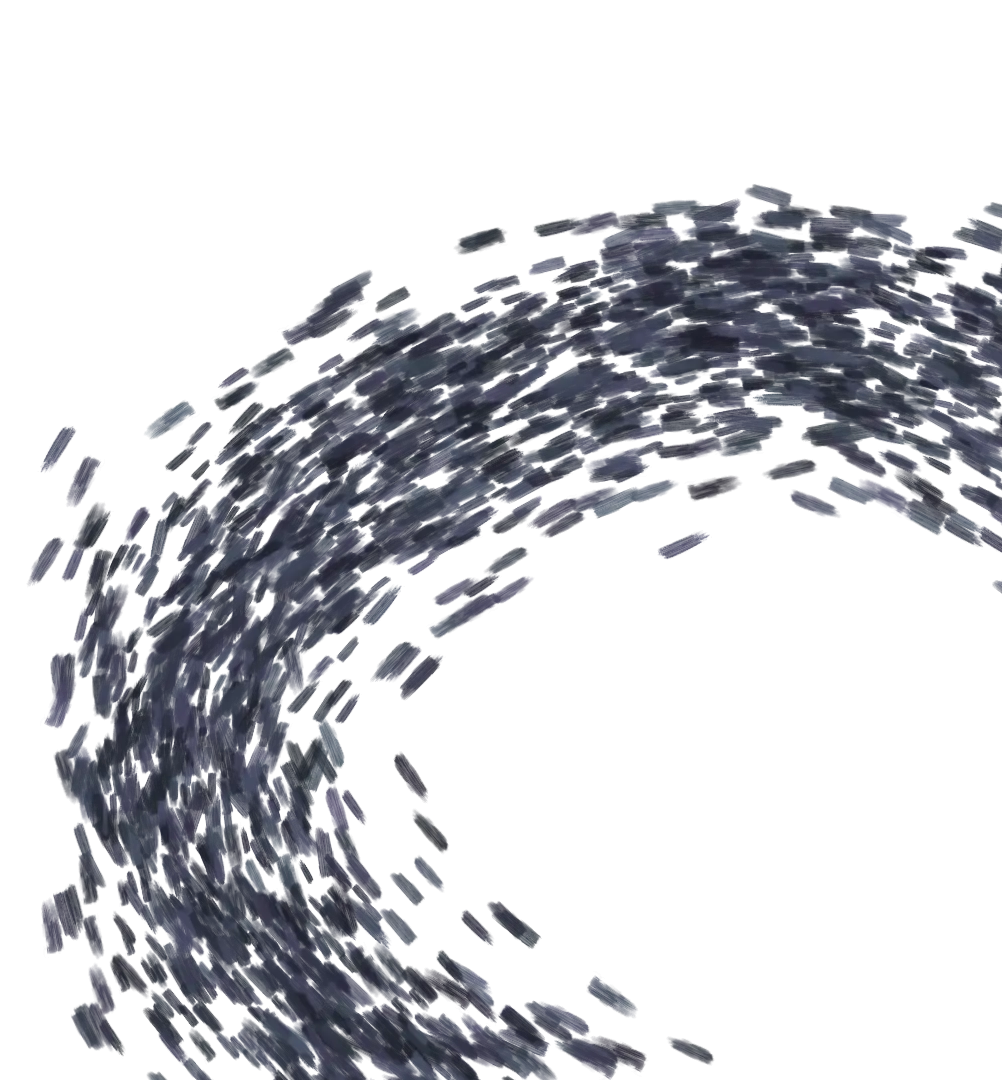
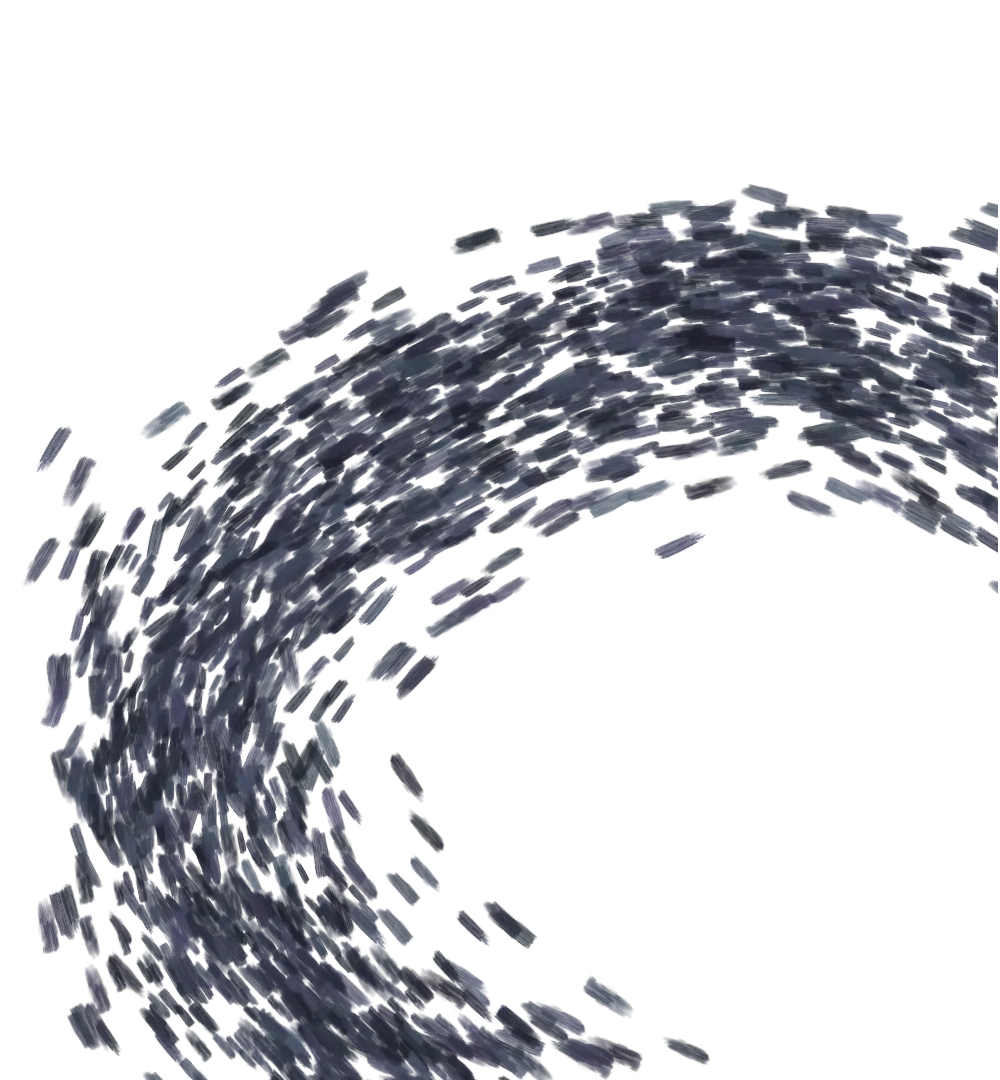
update

diff --git a/css/min.css b/css/min.css
@@ -1,1 +1,1 @@
-*,*:before,*:after{box-sizing:border-box}html{font-size:18px;overflow-x:hidden}@font-face{font-family:'roboto';src:url('../fonts/robotoRegular.ttf') format('truetype');font-weight:normal;font-style:normal}@font-face{font-family:"roboto-webfont";src:url('../fonts/robotoCondensed.ttf') format('truetype')}body{font-size:1.5em;font-weight:500;line-height:1.6;margin:0;overflow-x:hidden;background-color:#F8F9FA}section{margin:0}button{cursor:pointer;border:none;font-family:"roboto-webfont",Arial,sans-serif;font-weight:600}img{object-fit:cover}h1{font-family:"roboto-webfont",Arial,sans-serif;padding:0;margin:0;font-size:2.5rem;line-height:1;letter-spacing:-.1rem;text-align:center;color:#232931;text-shadow:}h2{padding:0;margin:0;line-height:normal;font-family:"roboto-webfont",Helvetica,Arial,sans-serif;font-size:1.5rem;line-height:1.8rem;color:#232931;margin-bottom:1rem}h3{font-family:"roboto-webfont",Helvetica,Arial,sans-serif;margin:0;padding:0;color:#232931}p{font-family:"roboto",Helvetica,Arial,sans-serif;color:#333C47;font-weight:400;font-size:.95rem}a{text-decoration:none}.nav{display:flex;justify-content:center;align-items:center;box-shadow:0rem .3rem .75rem rgba(0,0,0,.1);height:7vh;padding-top:1.5vh;padding-bottom:1vh;position:fixed;width:100%;background-color:#F8F9FA;z-index:5}.home{display:flex;flex-direction:column;align-items:center;justify-content:center;margin-top:-.2rem;margin-right:auto;margin-left:auto}.inactive::after{content:'';position:relative;display:block;width:0%;height:.1rem;background-color:dimgray;margin:-0.1rem auto;transition:width .2s ease-in-out}.inactive{transition:color .2s ease-in-out}.inactive:hover{color:#232931}.inactive:hover::after{content:'';position:relative;display:block;width:100%;height:.1rem;background-color:dimgray;margin:-0.1rem auto}.nav a{align-self:center;text-transform:uppercase;font-family:"roboto-webfont",Helvetica,Arial,sans-serif;color:#636363;font-size:.8rem;margin:0 .5rem}#type p{display:inline-block}.mainScreen{padding:5vw 0;background-image:url("../media/goghCo.webp"),url("../media/iconGrid.svg");background-repeat:no-repeat,repeat;background-position:right top,center top;background-size:cover,30%;z-index:1;padding-bottom:3rem;max-height:100vh;*/}.welcomeContent{text-align:center;width:100%;padding-top:15vh;display:flex;flex-direction:column;justify-content:space-between;align-content:center;padding-bottom:10vh}.welcomeContent p{width:80%;margin:0 auto;font-size:1rem;margin-top:3rem}#test1 span{text-decoration:underline}#logo{display:block;width:35%;height:auto;margin:0 auto}.logoHolder span{}@media (min-width:700px){h1{text-align:left;font-size:4rem}#test1{font-size:1.3rem;margin:0;width:75%;margin-top:1.3rem}#logo{width:100%;max-height:40vh}.mainScreen{padding:5vw 0;background-image:url("../media/goghCo.webp"),url("../media/iconGrid.svg");background-repeat:no-repeat,repeat;background-position:right bottom,center top;background-size:contain,10%;z-index:1;min-height:100vh}.welcomeContent{display:grid;grid-template-columns:2fr 1fr;width:90%;max-width:1500px;padding:5%;margin-left:auto;margin-right:auto;justify-content:left}hr{visibility:hidden}.sloganAndDesc{grid-column:1/2;grid-row:2/3;text-align:left;display:flex;flex-direction:column}.logoHolder{grid-column:1/2;grid-row:1/2;align-self:left}.logoHolder svg{margin-right:auto}.logoHolder{margin-right:auto}.logoHolder span{display:none}}.services{font-size:1rem;padding:5%;padding-top:1rem;padding-bottom:10vh;color:#3d3d3d;display:flex;flex-direction:column;background-color:transparent}.serviceBox h2{font-family:"roboto-webfont",Arial,sans-serif;margin:1rem 0;margin-top:2rem;text-align:left;color:#232931}.serviceBox p{padding:0;margin:0;margin-bottom:1rem;text-align:left}.serviceBox button{padding:.5rem .7rem;color:white;background-color:#DD1438;margin-bottom:0;font-size:.8rem;border-radius:0;box-shadow:.25rem .25rem .25rem rgba(0,0,0,.1)}.serviceBox{margin-top:9vh;background-color:#F8F9FA}.serviceBox:last-child{padding-bottom:7vh}.serviceInfo{width 100%}.map{height:150px;width:100%;display:block;box-shadow:.25rem .25rem .25rem rgba(0,0,0,.1)}#firstImage{background-image:url("../media/goranHands.webp");background-size:cover;background-position:center}#secondImage{background-image:url("../media/apronGirl.webp");background-size:cover;background-position:center}#thirdImage{background-image:url("../media/apronGirl.webp");background-size:cover;background-position:top}.spacer{margin:auto 0}@media (min-width:700px){.services{margin-left:auto;margin-right:auto;width:90%;max-width:1500px;display:flex;flex-direction:row}.serviceBox{margin-top:0;text-align:center;flex:1;display:flex;flex-direction:column;align-items:stretch;justify-content:space-between;box-shadow:.5rem .5rem .75rem rgba(0,0,0,.15);max-width:32%}.serviceBox:last-child{padding-bottom:0}.serviceBox::after{display:none}.serviceBox button{margin-bottom:1rem}.serviceInfo{display:flex;flex-direction:column;justify-content:space-between;margin:0;height:100%;background-color:#F5F5F5}.serviceInfo p{text-align:center;width:95%;margin:0 auto}.serviceInfo h2{text-align:center}.serviceCTA{display:none}.spacer{margin:0 auto}nav{padding-left:2rem;padding-right:2rem}.map{height:200px}}.teamSection{margin:0 0;background-color:#232931;padding:5%;padding-top:10vh}.team{display:flex;flex-direction:column}.teamCaption{font-family:"roboto-webfont",Arial,sans-serif;text-align:center;font-size:1.8rem;color:white;text-transform:uppercase;margin-bottom:7vh}.teamCaption::after,.teamCaptionDark::after{content:'';width:13ch;height:.45rem;background-color:#DD1438;display:block;margin:0 auto}.divider{object-fit:contain;width:105%;overflow-x:hidden;background:#F8F9FA;margin-bottom:-5px;display:none}.teamMember{font-size:1rem;box-shadow:.5rem .5rem .75rem rgba(0,0,0,.1);display:grid;grid-template-columns:1fr 1fr;margin:1rem auto;width:300px}.teamMemberName h3,.teamMemberName h2{padding:.5rem 0;margin:0;font-size:.8rem;font-family:"roboto-webfont",Arial,sans-serif;text-align:left;margin-left:5%;color:white;line-height:1.6}.teamMember picture,.teamMember img{object-fit:cover;grid-area:1 / 1 / 3 / 3;width:300px;height:300px}.teamMemberName{background-color:#DD1438;grid-column-start:1;grid-column-end:3;grid-row-start:3}.more{grid-column-start:2;grid-column-end:3;grid-row-start:3;grid-row-end:4;align-self:center;justify-self:end;margin-right:.5rem;display:flex;animation:.5s cubic-bezier(.55,.06,.68,.19) chevronAnim alternate;animation-iteration-count:infinite}.more img{object-fit:scale-down;height:2rem;width:auto}@keyframes chevronAnim{from{margin-right:.5rem}to{margin-right:1rem}}@media (min-width:700px){.team{flex-direction:row;width:70%;margin-left:auto;margin-right:auto;justify-content:space-around;max-width:750px}.teamCaption,.teamCaptionDark{font-size:3rem}.teamCaption::after{margin-top:.4rem}}.teamDescript{padding:.8rem;background-color:#F5F5F5;grid-column:1/3}.contact{background-color:#DD1438;padding:1rem;box-shadow:0rem .5rem .75rem rgba(0,0,0,.15)}.social{display:flex;justify-content:center;align-content:center}.socialIcon{height:2rem;width:2rem;margin:0 0.25rem;cursor:pointer;box-shadow:.25rem .25rem .25rem rgba(0,0,0,.05)}.socialIcon:first-child{margin-left:0}.buttonWhite{display:block;padding:0 1rem;color:#DD1438;background-color:white;font-size:.9rem;margin-left:.25rem;text-transform:uppercase;height:2rem;box-shadow:.25rem .25rem .25rem rgba(0,0,0,.1);border-radius:0}footer{margin-top:0;background-color:#232931;height:20vh}
+*,*:before,*:after{box-sizing:border-box}html{font-size:18px;overflow-x:hidden}@font-face{font-family:'roboto';src:url('../fonts/robotoRegular.ttf') format('truetype');font-weight:normal;font-style:normal}@font-face{font-family:"roboto-webfont";src:url('../fonts/robotoCondensed.ttf') format('truetype')}@font-face{font-family:"roboto-bold";src:url('../fonts/robotoBold.ttf') format('truetype')}body{font-size:1.5em;font-weight:500;line-height:1.6;margin:0;overflow-x:hidden;background-color:#F8F9FA}section{margin:0}button{cursor:pointer;border:none;font-family:"roboto-webfont",Arial,sans-serif;font-weight:600}img{object-fit:cover}h1{font-family:"roboto-webfont",Arial,sans-serif;padding:0;margin:0;font-size:2.5rem;line-height:1;letter-spacing:-.1rem;text-align:center;color:#232931;text-shadow:}h2{padding:0;margin:0;line-height:normal;font-family:"roboto-webfont",Helvetica,Arial,sans-serif;font-size:1.5rem;line-height:1.8rem;color:#232931;margin-bottom:1rem}h3{font-family:"roboto-webfont",Helvetica,Arial,sans-serif;margin:0;padding:0;color:#232931}p{font-family:"roboto",Helvetica,Arial,sans-serif;color:#333C47;font-weight:400;font-size:.95rem}a{text-decoration:none}.year{color:#DD1438;font-family:"roboto-bold";font-weight:600}.cvSpacer{height:5rem}.cv p{line-height:1.5rem}strong{}.nav{display:flex;justify-content:center;align-items:center;box-shadow:0rem .3rem .75rem rgba(0,0,0,.1);height:7vh;padding-top:1.5vh;padding-bottom:1vh;position:fixed;width:100%;background-color:#F8F9FA;z-index:5}.home{display:flex;flex-direction:row;align-items:center;justify-content:center;margin-top:-.2rem;margin-right:auto;margin-left:auto}.home picture{line-height:0}.inactive::after{content:'';position:relative;display:block;width:0%;height:.1rem;background-color:dimgray;margin:-0.1rem auto;transition:width .2s ease-in-out}.inactive{transition:color .2s ease-in-out}.inactive:hover{color:#232931}.inactive:hover::after{content:'';position:relative;display:block;width:100%;height:.1rem;background-color:dimgray;margin:-0.1rem auto}.nav a{align-self:center;text-transform:uppercase;font-family:"roboto-webfont",Helvetica,Arial,sans-serif;color:#636363;font-size:.8rem;margin:0 .5rem}#type{text-transform:lowercase;margin-left:.5rem;margin-bottom:1.2rem;font-family:"roboto-webfont";font-size:1.1rem}@media (max-width:700px){#type{display:none;margin:0}}.mainScreen{padding:5vw 0;background-image:url("../media/goghCo720.webp"),url("../media/iconGrid.svg");background-repeat:no-repeat,repeat;background-position:right top,center top;background-size:cover,30%;z-index:1;padding-bottom:3rem;max-height:100vh;*/}.welcomeContent{text-align:center;width:100%;padding-top:15vh;display:flex;flex-direction:column;justify-content:space-between;align-content:center;padding-bottom:10vh}.welcomeContent p{width:80%;margin:0 auto;font-size:1rem;margin-top:3rem}#test1 span{text-decoration:underline}#logo{display:block;width:35%;height:auto;margin:0 auto}.logoHolder span{}@media (min-width:700px){h1{text-align:left;font-size:3.25rem}#test1{font-size:1.1rem;margin:0;width:75%;margin-top:1.3rem}#logo{width:100%;max-height:40vh}.mainScreen{padding:5vw 0;background-image:url("../media/goghCo720.webp"),url("../media/iconGrid.svg");background-repeat:no-repeat,repeat;background-position:right bottom,center top;background-size:contain,10%;z-index:1;max-height:100vh}.welcomeContent{display:grid;grid-template-columns:2fr 1fr;width:90%;max-width:1500px;padding:5%;margin-left:auto;margin-right:auto;justify-content:left}hr{visibility:hidden}.sloganAndDesc{grid-column:1/2;grid-row:2/3;text-align:left;display:flex;flex-direction:column}.logoHolder{grid-column:1/2;grid-row:1/2;align-self:left}.logoHolder svg{margin-right:auto}.logoHolder{margin-right:auto}.logoHolder span{display:none}}@media (min-width:1400px){.mainScreen{padding:5vw 0;background-image:url("../media/goghCo.webp"),url("../media/iconGrid.svg");background-repeat:no-repeat,repeat;background-position:right bottom,center top;background-size:contain,10%;z-index:1;min-height:100vh}html{font-size:21px}}.services{font-size:1rem;padding:5%;padding-top:1rem;padding-bottom:10vh;color:#3d3d3d;display:flex;flex-direction:column;background-color:transparent}.serviceBox h2{font-family:"roboto-webfont",Arial,sans-serif;margin:1rem 0;margin-top:2rem;text-align:left;color:#232931}.serviceBox p{padding:0;margin:0;margin-bottom:1rem;text-align:left}.serviceBox button{padding:.5rem .7rem;color:white;background-color:#DD1438;margin-bottom:0;font-size:.8rem;border-radius:0;box-shadow:.25rem .25rem .25rem rgba(0,0,0,.1)}.serviceBox{margin-top:9vh;background-color:#F8F9FA}.serviceBox:last-child{padding-bottom:7vh}.serviceInfo{width 100%}.map{height:150px;width:100%;display:block;box-shadow:.25rem .25rem .25rem rgba(0,0,0,.1)}#firstImage{background-image:url("../media/goranHands.webp");background-size:cover;background-position:center}#secondImage{background-image:url("../media/apronGirl.webp");background-size:cover;background-position:center}#thirdImage{background-image:url("../media/apronGirl.webp");background-size:cover;background-position:top}.spacer{margin:auto 0}@media (min-width:700px){.services{margin-left:auto;margin-right:auto;width:90%;max-width:1500px;display:flex;flex-direction:row}.serviceBox{margin-top:0;text-align:center;flex:1;display:flex;flex-direction:column;align-items:stretch;justify-content:space-between;box-shadow:.5rem .5rem .75rem rgba(0,0,0,.15);max-width:32%}.serviceBox:last-child{padding-bottom:0}.serviceBox::after{display:none}.serviceBox button{margin-bottom:1rem}.serviceInfo{display:flex;flex-direction:column;justify-content:space-between;margin:0;height:100%;background-color:#F5F5F5}.serviceInfo p{text-align:center;width:95%;margin:0 auto}.serviceInfo h2{text-align:center}.serviceCTA{display:none}.spacer{margin:0 auto}nav{padding-left:2rem;padding-right:2rem}.map{height:200px}}.teamSection{margin:0 0;background-color:#232931;padding:5%;padding-top:10vh}.team{display:flex;flex-direction:column}.teamCaption,.teamCaptionDark{font-family:"roboto-webfont",Arial,sans-serif;text-align:center;font-size:1.8rem;color:white;text-transform:uppercase;margin-bottom:7vh;letter-spacing:normal}.teamCaption::after,.teamCaptionDark::after{content:'';width:13ch;height:.45rem;background-color:#DD1438;display:block;margin:0 auto}.divider{object-fit:contain;width:105%;overflow-x:hidden;background:#F8F9FA;margin-bottom:-5px;display:none}.teamMember{font-size:1rem;box-shadow:.5rem .5rem .75rem rgba(0,0,0,.1);display:grid;grid-template-columns:1fr 1fr;margin:1rem auto;width:300px}.teamMemberName h3,.teamMemberName h2{padding:.5rem 0;margin:0;font-size:.8rem;font-family:"roboto-webfont",Arial,sans-serif;text-align:left;margin-left:5%;color:white;line-height:1.6}.teamMember picture,.teamMember img{object-fit:cover;grid-area:1 / 1 / 3 / 3;width:300px;height:300px}.teamMemberName{background-color:#DD1438;grid-column-start:1;grid-column-end:3;grid-row-start:3}.more{grid-column-start:2;grid-column-end:3;grid-row-start:3;grid-row-end:4;align-self:center;justify-self:end;margin-right:.5rem;display:flex;animation:.5s cubic-bezier(.55,.06,.68,.19) chevronAnim alternate;animation-iteration-count:infinite}.more img{object-fit:scale-down;height:2rem;width:auto}@keyframes chevronAnim{from{margin-right:.5rem}to{margin-right:1rem}}@media (min-width:700px){.team{flex-direction:row;width:70%;margin-left:auto;margin-right:auto;justify-content:space-around;max-width:750px}.teamCaption,.teamCaptionDark{font-size:3rem;line-height:2.5rem}}.teamDescript{padding:.8rem;background-color:#F5F5F5;grid-column:1/3}.contact{background-color:#DD1438;padding:1rem;box-shadow:0rem .5rem .75rem rgba(0,0,0,.15)}.social{display:flex;justify-content:center;align-content:center}.socialIcon{height:2rem;width:2rem;margin:0 0.25rem;cursor:pointer;box-shadow:.25rem .25rem .25rem rgba(0,0,0,.05)}.socialIcon:first-child{margin-left:0}.buttonWhite{display:block;padding:0 1rem;color:#DD1438;background-color:white;font-size:.9rem;margin-left:.25rem;text-transform:uppercase;height:2rem;box-shadow:.25rem .25rem .25rem rgba(0,0,0,.1);border-radius:0}footer{margin-top:0;background-color:#232931;height:20vh}

diff --git a/team.html b/team.html
@@ -32,7 +32,8 @@
     <section class="teamPage">
       <h1 class="teamCaptionDark">Нашият Екип</h1>
       <div class="team">
-        <div class="teamMember" id="PavelLefterov">
+        <a href="#" id="PavelLefterov"></a>
+        <div class="teamMember">
           <picture>
             <source srcset="media/pavelSmall.webp">
             <source srcset="media/pavelSmall.jpg">
@@ -42,7 +43,58 @@
             <h2>ПАВЕЛ ЛЕФТЕРОВ</h2>
           </div>
           <div class="teamDescript">
-            <p>Роден през 1994г.</p> 0 0
+            <div class="cv">
+              <h3>Образование</h3>
+              <p>
+                <strong class="year">2020</strong> Зачислен като <strong>докторант</strong> с направление "Методика на <strong>обучението по изобразително изкуство"</strong> в СУ "Климент Охридски"
+                </p>
+                <p>
+                <strong class="year">2018</strong> Завършва <strong>магистърска</strong> програма "<strong>Семиотика и педагогика</strong> на изобразителното изкуство" в СУ "Климент Охридски"
+                </p>
+                <p>
+                <strong class="year">2016</strong> Завършва <strong>бакалавърска</strong> програма <strong>Fine art: Painting</strong> в Univesity of the arts London, Wimbledon college of art
+                </p>
+                <p>
+                <strong class="year">2013</strong> Завършва специалност "<strong>Живопис</strong>" в НУИИ "Илия Петров"</p>
+                </p>
+                <p>
+                <h3>Подбрани групови изложби</h3>
+                <p><strong class="year">2019</strong> <strong>On the edge</strong>, Стубел, София
+                </p>
+                <p>
+                <strong class="year">2018</strong> <strong>Дипломна изложба</strong>, Софийски университет, София
+                </p>
+                <p>
+                <strong class="year">2016</strong> <strong>Fusion Art Fest</strong>, Underground, София
+                </p>
+                <p>
+                <strong class="year">2016</strong> <strong>WCA BA Graduation Show</strong>, WCA, Лондон
+                </p>
+              <p>
+                <strong class="year">2015</strong> <strong>Project Berlin</strong>, Берлин
+                </p>
+                <p>
+                <strong class="year">2015</strong> <strong>BAZA</strong>, СГХГ, София
+                </p>
+                <p>
+                <strong class="year">2014</strong> <strong>London Calling 014</strong>, Truman brewery, Лондон
+                </p>
+                <p>
+                <strong class="year">2014</strong> <strong>ArtCube Art Fair</strong>, Лондон
+                </p>
+                <p>
+                <strong class="year">2013</strong> <strong>ESSL Art Award</strong>, галерия Академия, София
+                </p>
+                <p>
+                <strong class="year">2012</strong> <strong>BAZA</strong>, СГХГ, София
+                </p>
+                <p>
+                <strong class="year">2011</strong> <strong>Св. Св. Кирил и Методий</strong>, СБХ, София
+                </p>
+                <p>
+                <strong class="year">2011</strong> <strong>ARTPARIS 2011</strong>, Grand Palais, Париж</p>
+              </p>
+            </div>
           </div>
         </div>
 
@@ -70,6 +122,35 @@
           text-transform: uppercase;
           margin-top: 5vh;
           margin-bottom: 7vh;
+        }
+        @media (min-width: 700px) {
+          .team {
+            max-width: 1100px;
+          }
+          .teamMember {
+            display: grid;
+            grid-template-columns: 300px auto;
+            grid-gap: 1rem;
+            width: 100%;
+            box-shadow: none;
+          }
+          .teamMember img {
+            box-shadow: 0rem .25rem .5rem .15rem rgba(0, 0, 0, .3);
+          }
+          .teamDescript {
+            grid-column: 2/3;
+            max-width: 45ch;
+            grid-row-start: 1;
+            /* border: 1px solid lightgrey; */
+            box-shadow: 0rem .25rem .5rem .15rem rgba(0, 0, 0, .1);
+
+          }
+          .teamDescript p {
+            padding-left: .25rem;
+          }
+          .teamMemberName {
+            display: none;
+          }
         }
       </style>
     </section>

diff --git a/css/main.css b/css/main.css
@@ -16,6 +16,11 @@ html {
   src: url('../fonts/robotoCondensed.ttf') format('truetype');
 }
 
+@font-face {
+  font-family: "roboto-bold";
+  src: url('../fonts/robotoBold.ttf') format('truetype');
+}
+
 body {
   font-size: 1.5em;
   font-weight: 500;
@@ -96,6 +101,23 @@ a {
   text-decoration: none;
 }
 
+.year {
+  color: #DD1438;
+  font-family: "roboto-bold";
+  font-weight: 600;
+}
+.cvSpacer {
+  height: 5rem;
+}
+.cv p {
+  line-height: 1.5rem;
+}
+
+strong {
+  /* font-weight: 400; */
+  /* font-family: "roboto"; */
+}
+
 /* =========== HEADER =========== */
 
 .nav {
@@ -113,12 +135,15 @@ a {
 }
 .home {
   display: flex;
-  flex-direction: column;
+  flex-direction: row;
   align-items: center;
   justify-content: center;
   margin-top: -.2rem;
   margin-right: auto;
   margin-left: auto;
+}
+.home picture {
+  line-height: 0;
 }
 
 /* .home::after {
@@ -170,17 +195,27 @@ a {
   margin: 0 .5rem;
 }
 
-#type p {
-  display: inline-block;
+#type {
+  text-transform: lowercase;
+  margin-left: .5rem;
+  margin-bottom: 1.2rem;
+  font-family: "roboto-webfont";
+  font-size: 1.1rem;
 }
 
+@media (max-width: 700px){
+  #type {
+    display: none;
+    margin: 0;
+  }
+}
 
 
 /* =========== HERO =========== */
 
 .mainScreen {
   padding: 5vw 0;
-  background-image: url("../media/goghCo.webp"), url("../media/iconGrid.svg");
+  background-image: url("../media/goghCo720.webp"), url("../media/iconGrid.svg");
   background-repeat: no-repeat, repeat;
   background-position: right top, center top;
   background-size: cover, 30%;
@@ -242,10 +277,10 @@ a {
 
   h1 {
     text-align: left;
-    font-size: 4rem;
+    font-size: 3.25rem;
   }
   #test1 {
-    font-size: 1.3rem;
+    font-size: 1.1rem;
     margin: 0;
     width: 75%;
     margin-top: 1.3rem;
@@ -256,12 +291,12 @@ a {
   }
   .mainScreen {
     padding: 5vw 0;
-    background-image: url("../media/goghCo.webp"), url("../media/iconGrid.svg");
+    background-image: url("../media/goghCo720.webp"), url("../media/iconGrid.svg");
     background-repeat: no-repeat, repeat;
     background-position: right bottom, center top;
     background-size: contain, 10%;
     z-index: 1;
-    min-height: 100vh;
+    max-height: 100vh;
     /* background-image: url("../media/gogh.webp"); */
   }
   .welcomeContent {
@@ -298,8 +333,21 @@ a {
   .logoHolder span {
     display: none;
   }
-
-
+}
+@media (min-width: 1400px) {
+  .mainScreen {
+    padding: 5vw 0;
+    background-image: url("../media/goghCo.webp"), url("../media/iconGrid.svg");
+    background-repeat: no-repeat, repeat;
+    background-position: right bottom, center top;
+    background-size: contain, 10%;
+    z-index: 1;
+    min-height: 100vh;
+    /* background-image: url("../media/gogh.webp"); */
+  }
+  html {
+    font-size: 21px;
+  }
 }
 
 /* =========== SERVICES =========== */
@@ -498,13 +546,14 @@ a {
   flex-direction: column;
 }
 
-.teamCaption {
+.teamCaption, .teamCaptionDark {
   font-family: "roboto-webfont", Arial, sans-serif;
   text-align: center;
   font-size: 1.8rem;
   color: white;
   text-transform: uppercase;
   margin-bottom: 7vh;
+  letter-spacing: normal;
   /* margin-left: 2rem; */
 }
 
@@ -611,11 +660,8 @@ a {
   }
   .teamCaption, .teamCaptionDark {
     font-size: 3rem;
+    line-height: 2.5rem;
   }
-  .teamCaption::after {
-    margin-top: .4rem;
-  }
-
 }
 
 .teamDescript {

diff --git a/index.html b/index.html
@@ -23,8 +23,12 @@
   <header>
     <nav class="nav">
       <a href="/" class="home" class="active">
-        <img src="media/logoCircleNT.svg" alt="home" height="25x">
-        <!-- <p id="type">strof<p> -->
+        <picture>
+          <!-- <source srcset="media/logoCircle1080.svg" media="(min-width: 701px)">
+          <source srcset="media/logoCircleNT.svg" media="(max-width: 700px)"> -->
+          <img src="media/logoCircleNT.svg" alt="home" height="25x">
+        </picture>
+        <p id="type">strof<p>
       </a>
       <div class="spacer"></div>
       <a href="logo.html" class="inactive">Услуги</a>
@@ -126,7 +130,7 @@
           /* font-size: 2rem; */
           line-height: .9;
           /* text-align: center; */
-          color: ##202124;
+          color: #202124;
         }
         h1 span {
           display: block;

diff --git a/pavelCV.md b/pavelCV.md
@@ -1,0 +1,21 @@
+### **Образование**
+
+* **2020** Зачислен като докторант с направление "Методика на обучението по изобразително изкуство" в СУ "Климент Охридски"
+* **2018** Завършва магистърска програма "Семиотика и педагогика на изобразителното изкуство" в СУ "Климент Охридски"
+* **2016** Завършва бакалавърска програма Fine art: Painting в Univesity of the arts London, Wimbledon college of art
+* **2013** Завършва специалност "Живопис", НУИИ "Илия Петров"
+
+### **Подбрани групови изложби**
+
+* **2019** On the edge, Стубел, София
+* **2018** Дипломна изложба, Софийски университет, София
+* **2016** Fusion Art Fest, Underground, София
+* **2016** WCA BA Graduation Show, WCA, Лондон
+* **2015** Project Berlin, Берлин
+* **2015** BAZA, СГХГ, София
+* **2014** London Calling 014, Truman Brewery, Лондон
+* **2014** ArtCube Art Fair, Лондон
+* **2013** ESSL Art Award, галерия Академия, София
+* **2012** BAZA, СГХГ, София
+* **2011** Св. Св. Кирил и Методий, СБХ, София
+* **2011** ARTPARIS 2011, Grand Palais, Париж
